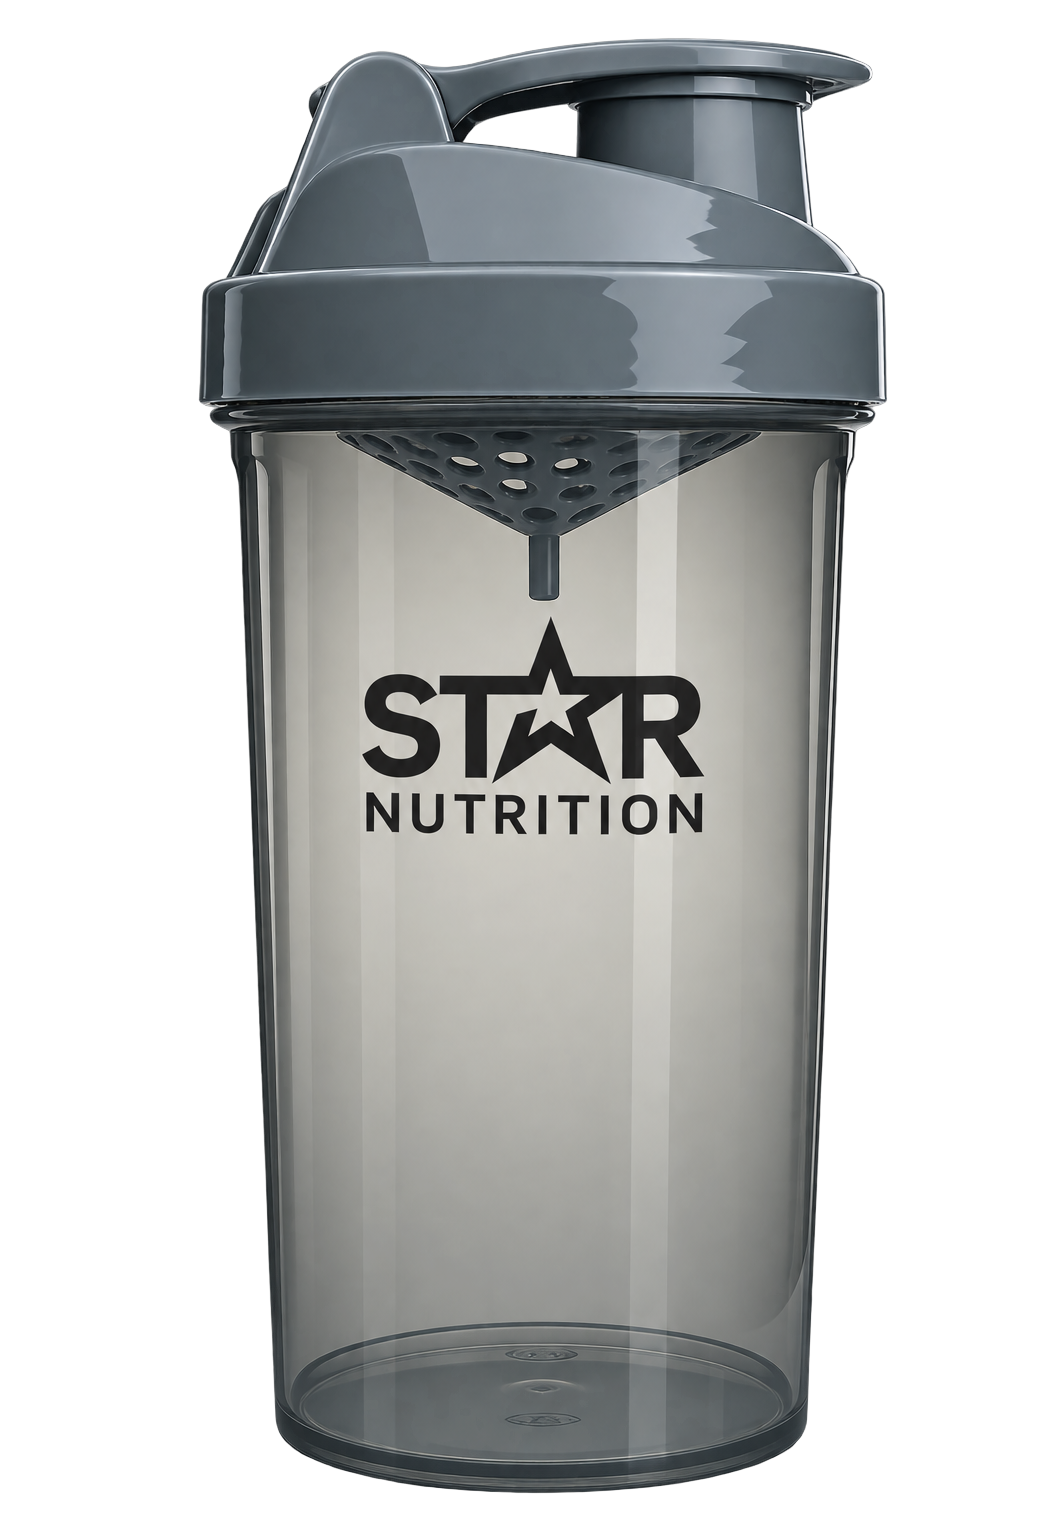
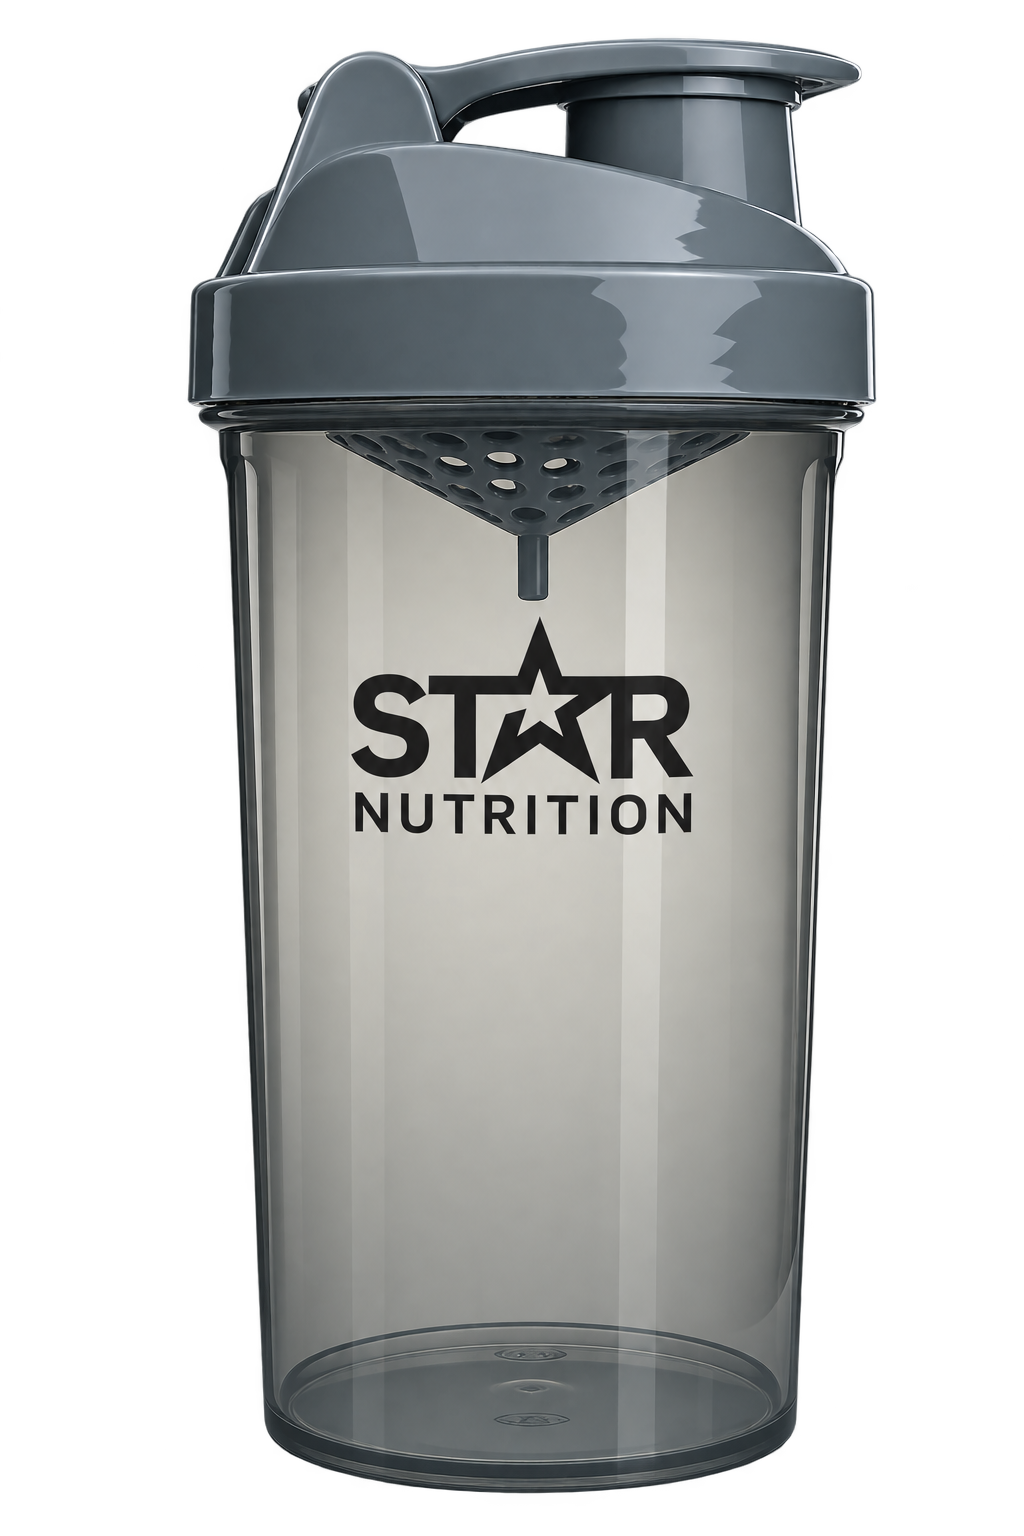
Use Star Nutrition shaker photos uncropped, as delivered
Lucas's cropped/padded versions looked bad in the preview. Swap in the
raw 1024x1536 photos with no background processing, and recalibrate
the print box, viewBox height and stage aspect ratio to match.

Claude-Session: https://claude.ai/code/session_01VVf3TW65LnqYAg3coF62ij

diff --git a/components/Pricing.tsx b/components/Pricing.tsx
@@ -35,17 +35,20 @@ const MAX_UPLOAD_MB = 8
 /* Artwork is scaled to fit the print, so it has to start out big enough. */
 const MIN_ARTWORK_PX = 3000
 
-/* Both bottles carry a printed STAR NUTRITION logo centred on the front
-   (white logo x 37–63 %, gray x 36–67 %), so the customer's own print sits
-   in the clear strip on the body's right shoulder instead of overlapping it.
-   Measured off the cutouts: body right edge runs 74–85 % depending on height
-   and variant, tightest at the base (white, ~74 % at y 90–95 %) — this box
-   stays inside that everywhere it's likely to carry actual glyph strokes. */
-const PRINT = { left: 68, top: 27, width: 9, height: 60 }
-/* viewBox matched to the print box's rendered aspect (both cutouts share a
-   normalized 1016×1483 aspect so they occupy the same on-screen size). */
+/* Product photos, used exactly as Lucas sent them — uncropped, at their
+   native 1024×1536 canvas, no cutout of our own. Both bottles carry a
+   printed STAR NUTRITION logo centred on the front (white logo x 37–65 %,
+   gray x 34–67 %), so the customer's own print sits in the clear strip on
+   the body's right shoulder instead. Measured off these photos: body right
+   edge runs 74–81 % depending on height and variant, tightest at the base
+   (white, ~74 % around y 80–90 %) — this box stays inside that everywhere
+   it's likely to carry actual glyph strokes. */
+const PRINT = { left: 68, top: 27, width: 7, height: 58 }
+/* viewBox matched to the print box's rendered aspect (both source photos
+   share the same 1024×1536 canvas already, so no per-variant padding is
+   needed to make them occupy the same on-screen size). */
 const VB_W = 100
-const VB_H = 973
+const VB_H = 1243
 const UID = 'hs-print'
 
 /* ── Live print rendering ────────────────────────────────────────────── */
@@ -495,7 +498,7 @@ export default function Pricing() {
                   onPointerUp={releaseTilt}
                   onPointerCancel={releaseTilt}
                   onPointerLeave={releaseTilt}
-                  className="relative h-[270px] sm:h-[340px] lg:h-[500px] aspect-[1016/1483] select-none touch-pan-y"
+                  className="relative h-[270px] sm:h-[340px] lg:h-[500px] aspect-[1024/1536] select-none touch-pan-y"
                   style={{ cursor: 'grab' }}
                 >
                   {/* Ambient halo */}
